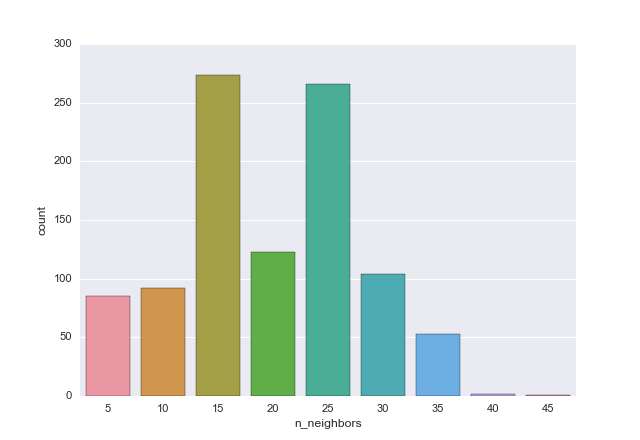
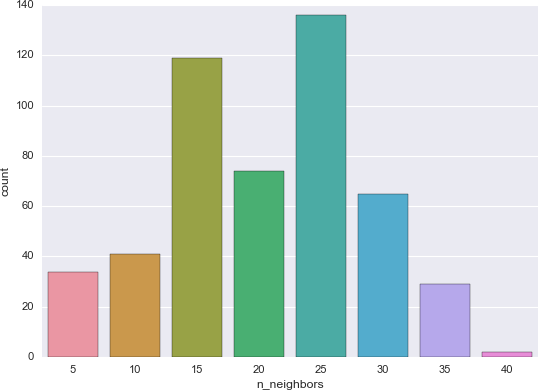
Filling in more text for the plant ROM description.

diff --git a/doc/papers/MU_RESS/plantROM.tex b/doc/papers/MU_RESS/plantROM.tex
@@ -3,36 +3,78 @@
 
 \newcommand{\DPM}[1]{\textcolor{magenta}{#1}}
 
-For the six plant models considered in this analysis, we have chosen to use
-$k$-nearest neighbor classifiers as surrogates to predict the presence
-of core damage in each of the models.
+For the six plant models considered in this analysis, we have chosen to use $k$-nearest neighbor classifiers as surrogates to predict the presence of core damage in each of the models.
 %
-Each surrogate is trained on a separate set of Monte Carlo samples, and
-cross-validated using 3-fold validation in order to select an optimal value for
-$k$.
+The $k$-nearest neighbor classifier is able to classify unobserved samples by employing a weighted voting system over the input space of the model.
 %
-In 3-fold validation, the data is split into three subsets and trained on two
-of the subsets where the third subset is used to evaluate the prediction
-accuracy.
+In this process, first a set of observed training samples, $\mathcal{T}$, are classified according to our ground truth model.
 %
-The $k$-value that fits the data with the highest accuracy is considered the
-``best'' parameter setting.
+In order to predict the class label of an unobserved query point, $q_i$, the $k$ \emph{nearest} samples in $\mathcal{T}$, which we will denote as $p_{i,1}$,...,$p_{i,k}$, are identified.
 %
-We repeat this process ten times for each model to ensure stability of the
-results using multiples of 5 up to 50 for values of $k$ ($5,10,15,20,25,30,35,40,45,50$).
+Each of the $k$ neighbors is assigned a weight and votes for its observed label.
+%
+The weight of the vote for $p_{i,j}$ is given by the inverse Euclidean distance between $q_i$ and $p_{i,j}$.
+%
+Similarly, we define ``nearest'' in terms of Euclidean or $L^2$ distance on the input space of the model being trained.
 
-We evaluate the convergence of each rom by evaluating the mean and standard
-deviation of the prediction accuracy over various training sizes, where a subset
-of the training data is used to construct a surrogate which is then used to
-predict on the entire validation set.
+Each surrogate is trained on a separate set of Monte Carlo samples, and cross-validated using 3-fold validation in order to select an optimal value for $k$.
+%
+In 3-fold validation, the data is split into three roughly equal subsets and trained on two of the subsets where the third subset is used to evaluate the prediction accuracy.
+%
+The $k$-value that fits the data with the highest accuracy is considered the ``best'' parameter setting.
+%
+In order to achieve a stable optimum, we randomly select half of the training data and perform 3-fold validation over multiple iterations.
+%
+The results are collected into a histogram similar to Figure~\ref{fig:neighborSelection} and the most frequent ``best'' parameter is selected for $k$.
+%
+The values of $k$ considered are the multiple of 5 up to and including 50 (i.e., $5,10,15,20,25,30,35,40,45,50$).
+%
+As we can see in Figure~\ref{fig:neighborSelection}, $k=25$ most frequently reports the highest prediction classification for the held-out data for the PWR2 model and is thus reported as the optimal value in Table~\ref{tab:romInfo}.
+
+\begin{figure}[!htbp]
+	\centering
+	\includegraphics[width=0.98\textwidth]{neighborCVPWR2.png}
+	\caption{Histogram of the ``best'' $k$ value for the PWR2 model when repeatedly trained on 500 variations of samples drawn from a pool of 4951 training samples. The training size for each instance was 2475.}
+	\label{fig:neighborSelection}
+\end{figure}
+
+In order to report on the stability and convergence of each ROM, we evaluate the prediction accuracy of each ROM over increasing training sizes.
+%
+To this end, we compute the mean and standard deviation of the prediction accuracy over 10 iterations of each training size.
+%
+The prediction accuracy is always computed from the entire validation set.
+%
+In each case, we randomly select a set of 100 training samples, train our surrogate using this subset of training data, and predict the accuracy of the entire validation set.
+%
+We repeat this process ten times using a different set of randomly selected training samples and compute the mean and standard deviation for this training size.
+%
+Next, we add 100 training samples and repeat the entire process.
+%
+The process is repeated until the full training set is used.
+%
+Note, in the case where the full training set is used, the standard deviation will be zero since every trial of randomly selected samples will be represent the full training set.
+%
+This final accuracy value is the prediction accuracy reported in Table~\ref{tab:romInfo}.
 %
 An example of this convergence is shown in Figure~\ref{fig:romConvergence}.
 
-\DPM{Expand...}
+\begin{figure}[!htbp]
+	\centering
+	\includegraphics[width=0.98\textwidth]{convergenceSFP1.png}
+	\caption{Convergence of the Prediction Accuracy with increasing sample sizes for the SFP1 model. Each data point is the average of ten trials
+	worth of data with error bars representing one standard deviation. For this dataset the full training pool consists of 2883 points and accuracy is tested on an independent validation set of 2876 samples.}
+	\label{fig:romConvergence}
+\end{figure}
 
-The resulting $k$ values used for each model are reported in Table~\ref{tab:romInfo}.
-
-\DPM{Figure~\ref{fig:neighborSelection}}
+As we can see, the results are both highly stable and highly accurate.
+%
+The stability and precision of the results are exhibited by the presence of small error bars and a steady, gradual improvement as the size increases.
+%
+There are no large spikes or dips in the plot.
+%
+In terms of accuracy, the model accuracy is never below $90\%$ even when using only 100 samples.
+%
+The final parameter settings and accuracies of each model trained on its full training size are given in Table~\ref{tab:romInfo}.
 
 \begin{table}[!htbp]
 	\centering
@@ -56,18 +98,3 @@ The resulting $k$ values used for each model are reported in Table~\ref{tab:romI
 	 \caption{Surrogate model settings and validation information.}
 	 \label{tab:romInfo}
 \end{table}
-
-\begin{figure}[!htbp]
-	\centering
-	\includegraphics[width=0.98\textwidth]{convergenceSFP1.png}
-	\caption{Convergence of the Prediction Accuracy with increasing sample sizes. Each data point is the average of ten trials
-	worth of data with error bars representing one standard deviation.}
-	\label{fig:romConvergence}
-\end{figure}
-
-\begin{figure}[!htbp]
-	\centering
-	\includegraphics[width=0.98\textwidth]{neighborCVPWR2.png}
-	\caption{Histogram of the ``best'' $k$ value for the PWR2 model when trained on 100 variations of size 2475 drawn from a pool of 4951 training samples. \DPM{Use other figure here where k=25 was better than k=15.}}
-	\label{fig:neighborSelection}
-\end{figure}
